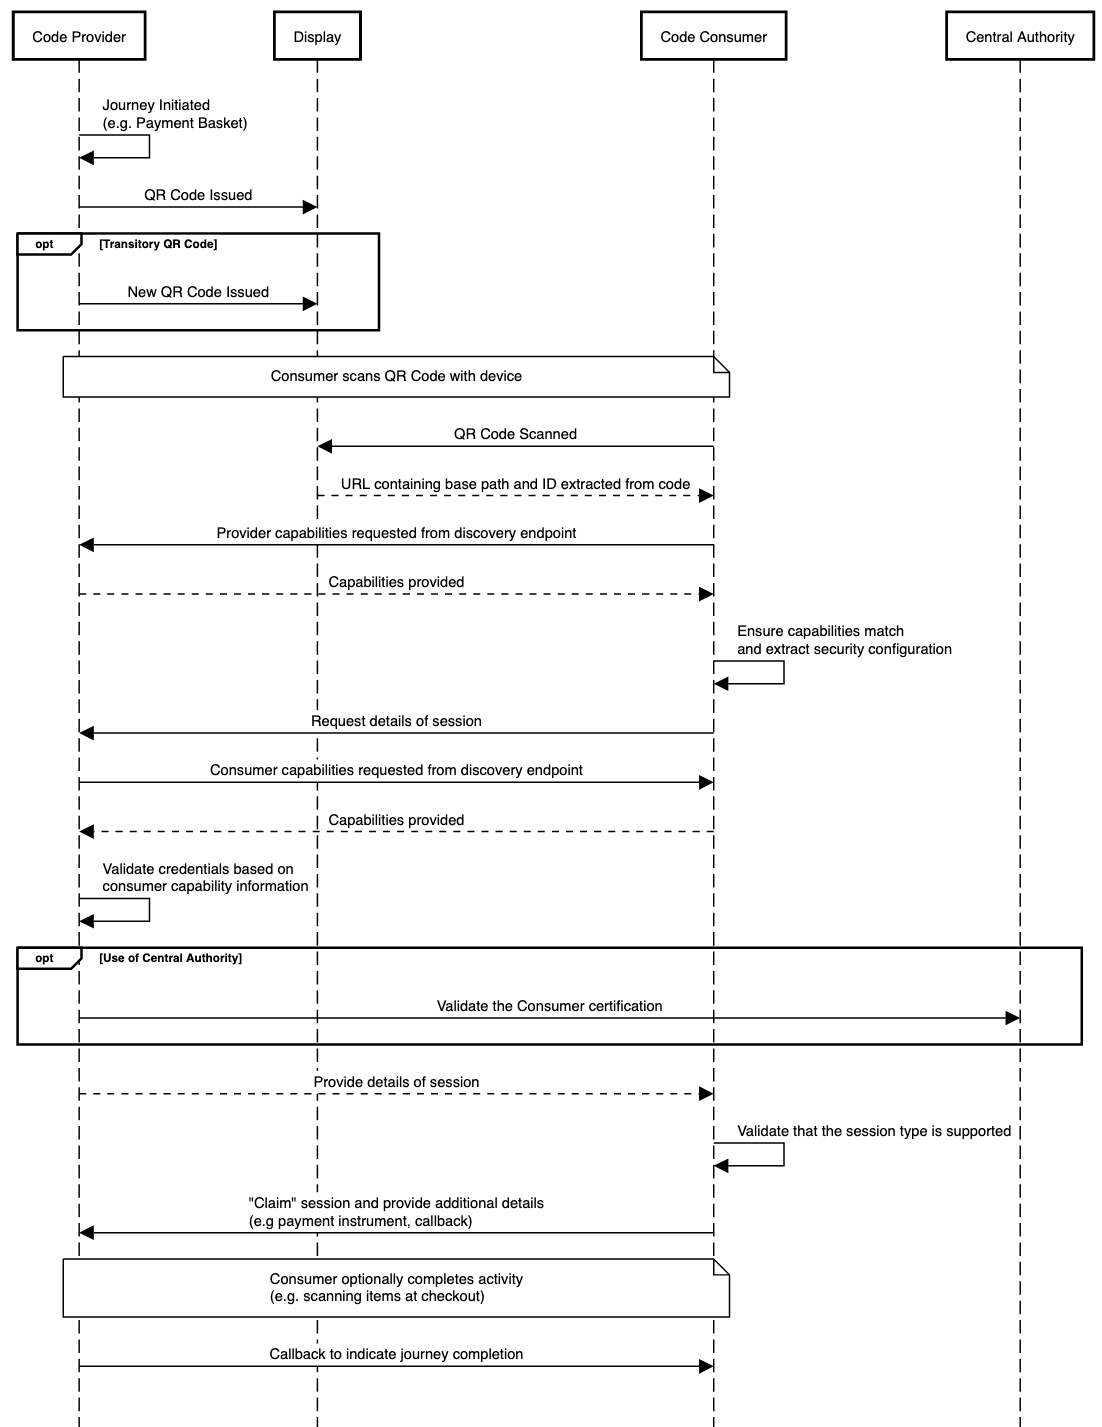
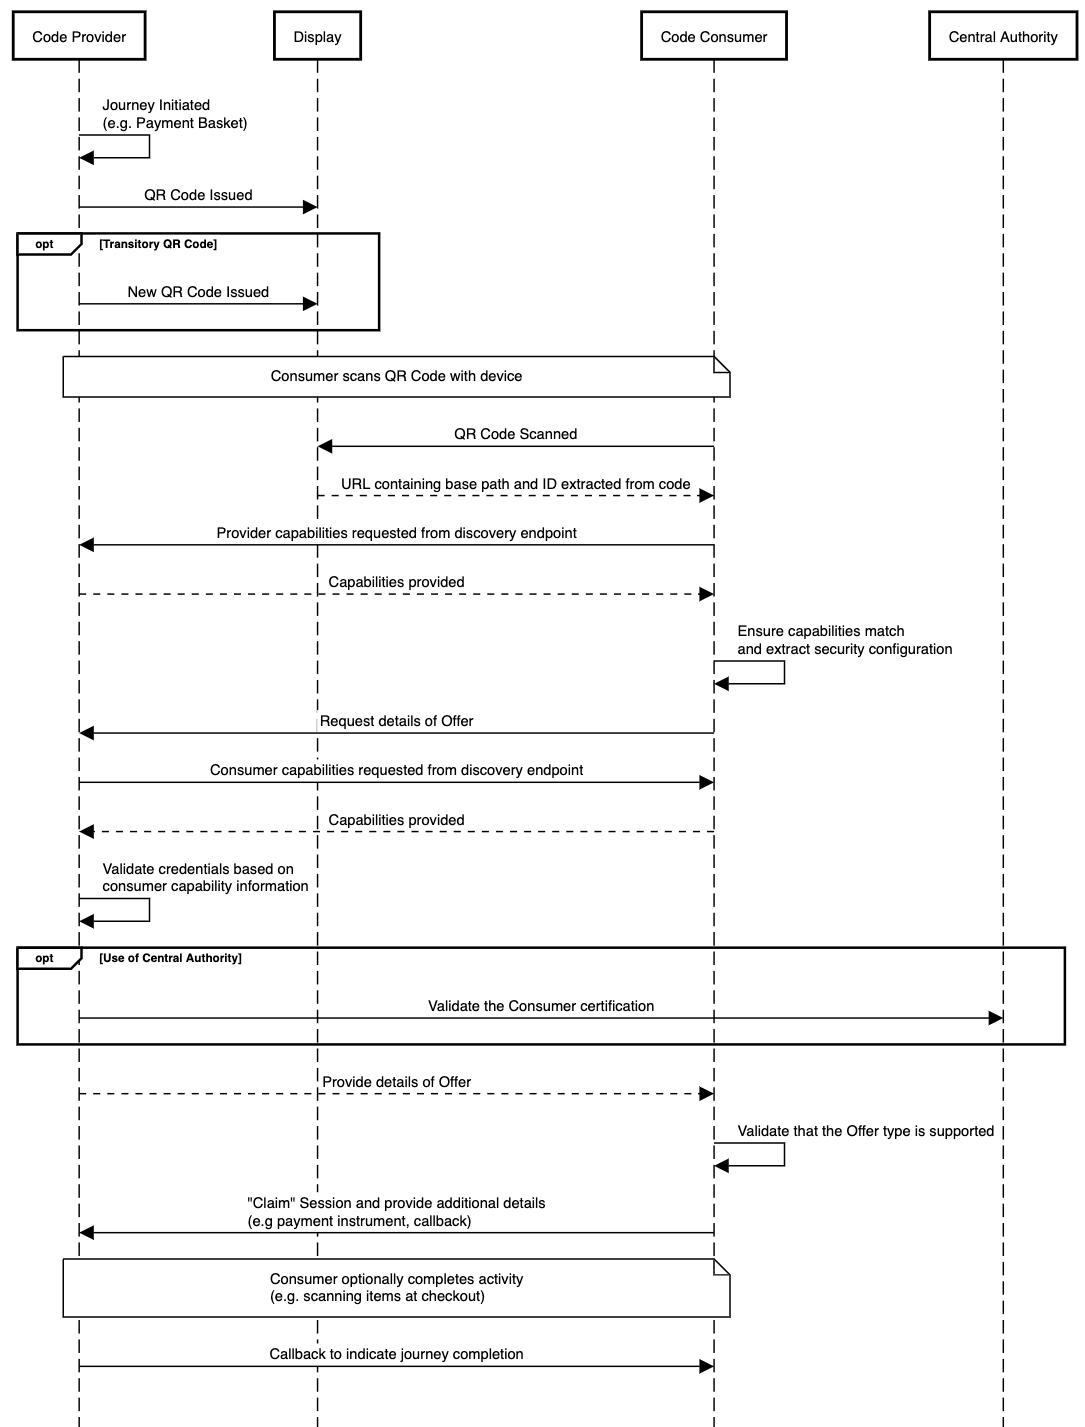
Update terminology to separate the concept of an Offer and a Session

diff --git a/open-qr-standard.md b/open-qr-standard.md
@@ -2,7 +2,7 @@
 
 **An open standard for the publication of interoperable QR codes for payments and other use cases**
 
-**DRAFT**: v0.1.0
+**DRAFT**: v1.0.0
 
 **Authors**:	James Bligh, Kareem Al-Bassam, Jack Moggach
 
@@ -33,6 +33,8 @@ The key words "MUST", "MUST NOT", "REQUIRED", "SHALL", "SHALL NOT", "SHOULD", "S
 |Code Provider|The system that represents the initiating side of the user journey.  This is the system that creates and publishes the QR Code.  For a point-of-sale payment this would be the merchant checkout system.|
 |Code Consumer|The system that represents the acceptance, or client, side of the user journey.  This is the system that scans and processes the QR Code.  For a point-of-sale payment this would be the customer’s mobile wallet application.|
 |QR Profile|A profile for defining the format of the various actions and meta data that can be transferred using this standard for a specific type of use case or user journey.|
+|Offer|The information about the profiles and capabilities associated with a specific QR Code.|
+|Session|An established connection between a QR Provider and a QR Consumer.|
 
 ## Generic Sequence Diagram
 
@@ -79,7 +81,7 @@ An example sequence of activity supported by this standard is as follows ([PNG v
       |                                               |                              |               |            |
       |                                               |<------------------------------               |            |
       |                                               |                                              |            |
-      |                    Request details of session |                                              |            |
+      |                      Request details of Offer |                                              |            |
       |<----------------------------------------------|                                              |            |
       |                                               |                                              |            |
       | Consumer capabilities from discovery          |                                              |            |
@@ -96,15 +98,15 @@ An example sequence of activity supported by this standard is as follows ([PNG v
       | (optional: Use of Central Authority) Validate the Consumer certification                     |            |
       |---------------------------------------------------------------------------------------------------------->|
       |                                               |                                              |            |
-      | Provide details of session                    |                                              |            |
+      | Provide details of Offer                      |                                              |            |
       |---------------------------------------------->|                                              |            |
       |                                               |                                              |            |
-      |                                               | Validate session type is supported           |            |
-      |                                               |-----------------------------------           |            |
-      |                                               |                                  |           |            |
-      |                                               |<----------------------------------           |            |
+      |                                               | Validate Offer type is supported             |            |
+      |                                               |---------------------------------             |            |
+      |                                               |                                |             |            |
+      |                                               |<--------------------------------             |            |
       |                                               |                                              |            |
-      |           "Claim" session and provide details |                                              |            |
+      |           "Claim" Session and provide details |                                              |            |
       |<----------------------------------------------|                                              |            |
       |                                               |                                              |            |
       | Callback to indicate journey completion       |                                              |            |
@@ -122,19 +124,29 @@ This QR Code MUST contain a URL in the following format:
 
 The Code Provider MUST provide a valid web page at the location specified by `<provider base>` with instructions for a user how the QR Code can be successfully used.
 
-The `<QR ID>` is used to obtain access to a data entity held by the Code Provider referred to in this standard as a session.  QR IDs MAY be single or multiple use depending on the use case being supported.
-
-Sessions MUST be single use.
+The `<QR ID>` is used to obtain access to a data entity held by the Code Provider referred to in this standard as an `Offer`.  QR IDs MAY be single or multiple use depending on the use case being supported.
 
 The Code Provider SHOULD superimpose a logo on the QR code to help Customers recognise trusted brands.  This logo SHOULD be tested to ensure the logo does not introduce too much error to the QR Code and the QR Code remains readable. In situations where the effect of scanning a QR code is unclear the Code Provider SHOULD provide guidance as to how the QR Code can be successfully used.
 
-## Session Actions
+## Offers
 
-The Code Provider MUST support a Session Info endpoint that the Code Consumer can call to obtain information about the session using the QR ID obtained from the QR Code.  This endpoint SHOULD be idempotent and should not have side effects on the underlying Session.
+An Offer is the information associated with a specific QR Code that represnts the profiles that the QR Code allows access to.  A Code Consumer obtains the Offer information for a QR Code and then determines how to proceed based on the information the Offer contains and what there service supports.
 
-The Code Provider MUST support a Session Claim endpoint that the Code Consumer can use to claim a session for use using a QR ID.  This endpoint MUST provide a unique Session ID that can be used for subsequent interactions.
+Offers MAY be single use or MAY be multi-use.
 
-The Code Provider MUST support a Session Status endpoint to identify the status of a session using a Session ID.
+## Sessions
+
+After obtaining the Offer information a Code Consumer may claim that Offer.  This will result in a Session being established between the Code Provider and the Code Consumer with the Code Provider being the owner of the Session.
+
+Sessions MUST be single use.
+
+## Offer and Session Endpoints
+
+The Code Provider MUST support an Offer Info endpoint that the Code Consumer can call to obtain information about the Offer using the QR ID obtained from the QR Code.  This endpoint SHOULD be idempotent and should not have side effects on the underlying Offer.
+
+The Code Provider MUST support an Offer Claim endpoint that the Code Consumer can use to claim a Offer for use using a QR ID and thus establishing a Session.  This endpoint MUST provide a unique Session ID that can be used for subsequent interactions.
+
+The Code Provider MUST support a Session Status endpoint to identify the status of a Session using a Session ID.
 
 The Code Provider MUST support the ability to perform a callback to the Code Consumer when the status of the Session changes.
 

diff --git a/profiles/payment-profile.md b/profiles/payment-profile.md
@@ -9,7 +9,7 @@ This profile relies upon, and extends the [Core QR Profile definition](./core-pr
 
 This profile is optional.
 
-**DRAFT**: v1.0.0
+**DRAFT**: v1.1.0
 
 **Authors**:	James Bligh, Kareem Al-Bassam, Jack Moggach
 
@@ -39,16 +39,16 @@ The supported discovery properties are:
 
 ## Code Provider Endpoints
 
-### Session Info Endpoint
+### Offer Info Endpoint
 
-The following schema defines the content to be returned by the Code Provider in a request to the session info endpoint under the ‘profiles’ property.  This schema will be returned with an object with the field name of the *Code Provider Profile URN*.
+The following schema defines the content to be returned by the Code Provider in a request to the offer info endpoint under the ‘profiles’ property.  This schema will be returned with an object with the field name of the *Code Provider Profile URN*.
 
 Profile specific response schema [JSONSchema]:
 
 ```json
 {
    "$schema": "http://json-schema.org/draft-07/schema",
-   "$id": "https://cds-au/qr/pos-merchant/1/response/session/info",
+   "$id": "https://cds-au/qr/pos-merchant/1/response/offer/info",
    "type": "object",
    "additionalProperties": true,
    "required": [
@@ -78,11 +78,11 @@ Profile specific response schema [JSONSchema]:
       },
       "merchantReference": {
          "type": "string",
-         "description": "Optional reference identifier which represents the QR session in a merchant's internal systems."
+         "description": "Optional reference identifier which represents the offer in a merchant's internal systems."
       },
       "synchronous": {
          "type": "boolean",
-         "description": "Flag indicating that a payment with this QR code will be synchronous and a final status will be provided when the session is claimed. Assumed to be false if absent"
+         "description": "Flag indicating that a payment with this QR code will be synchronous and a final status will be provided when the offer is claimed. Assumed to be false if absent"
       },
       "instrumentTypes": {
          "type": "object",
@@ -93,9 +93,9 @@ Profile specific response schema [JSONSchema]:
 }
 ```
 
-### Session Claim Endpoint
+### Offer Claim Endpoint
 
-The following schemas define the content to be included in the request and response payloads for the session claim endpoint under the ‘profiles’ property.
+The following schemas define the content to be included in the request and response payloads for the offer claim endpoint under the ‘profiles’ property.
 
 The following schema will be included in the request object with an object with the field name of the *Code Consumer Profile URN*.
 
@@ -104,7 +104,7 @@ Profile specific request schema [JSONSchema]:
 ```json
 {
    "$schema": "http://json-schema.org/draft-07/schema",
-   "$id": "https://cds-au/qr/pos-wallet/1/request/session/claim",
+   "$id": "https://cds-au/qr/pos-wallet/1/request/offer/claim",
    "type": "object",
    "additionalProperties": false,
    "required": [
@@ -126,7 +126,7 @@ Profile specific request schema [JSONSchema]:
          "properties": {
             "type": {
                "type": "string",
-               "description": "The type of the instrument to be used for the payment. Additional fields such as tokens or identifiers will be included as defined for the specific instrument type. The instrument type must be one of the types indicated as being supported in the provider discovery document and in the response to a call to session info"
+               "description": "The type of the instrument to be used for the payment. Additional fields such as tokens or identifiers will be included as defined for the specific instrument type. The instrument type must be one of the types indicated as being supported in the provider discovery document and in the response to a call to offer info"
             }
          }
       }
@@ -141,7 +141,7 @@ Profile specific response schema [JSONSchema]:
 ```json
 {
    "$schema": "http://json-schema.org/draft-07/schema",
-   "$id": "https://cds-au/qr/pos-merchant/1/response/session/claim",
+   "$id": "https://cds-au/qr/pos-merchant/1/response/offer/claim",
    "type": "object",
    "additionalProperties": true,
    "required": [
@@ -322,7 +322,7 @@ Profile specific response schema [JSONSchema]:
 
 ## Code Provider Callback
 
-Code Providers which support the Point of Sale Payment MUST be able to callback to a nominated Code Consumer endpoint when information about a claimed Session changes.
+Code Providers which support the Point of Sale Payment MUST be able to callback to a nominated Code Consumer endpoint when information about a Session changes.
 
 Code Consumers can optionally include a ‘callbackUri’ within their discovery document. If this value is set the Code Provider MUST send callback requests. The ‘callbackUri’ can be found in the Code Consumer profile with the *Code Provider Profile URN*.
 
@@ -346,7 +346,7 @@ The supported discovery properties are:
 |----------|-------------|-------------|
 |loyaltyPrograms|OPTIONAL|Array of strings indicating the loyalty programs supported for payments.  The values in the array are string indicators nominated by the loyalty program organisation.|
 |instrumentTypes|OPTIONAL|Map indicating the types of payment instruments supported by the code provider.  The keys in the map are string indicators nominated by the organisation that manages the instrument type. Keys follow a URN format and support versions. Metadata about the instrument type may be included in the mapped value object.|
-|callbackUri|OPTIONAL|A URL where the wallet can receive status callbacks. If supplied the merchant should send a POST request to this URL using the ‘Session Status’ schema whenever information about a session is changed.|
+|callbackUri|OPTIONAL|A URL where the wallet can receive status callbacks. If supplied the merchant should send a POST request to this URL using the ‘Session Status’ schema whenever information about a Session is changed.|
 
 ## Code Consumer Endpoints
 

diff --git a/profiles/core-profile.md b/profiles/core-profile.md
@@ -7,7 +7,7 @@ Note that this profile should read as an addendum to the [Open QR Standard](../o
 
 This profile MUST be supported by both Code Providers and Code Consumers.
 
-**DRAFT**: v1.0.0
+**DRAFT**: v1.1.0
 
 **Authors**:	James Bligh, Kareem Al-Bassam, Jack Moggach
 
@@ -23,8 +23,8 @@ The supported discovery properties are:
 
 | Property | Optionality | Description |
 |----------|-------------|-------------|
-|sessionInfoUri|REQUIRED|URL of the Session Info endpoint hosted by the Code Provider.|
-|sessionClaimUri|REQUIRED|URL of the Session Claim endpoint hosted by the Code Provider.|
+|offerInfoUri|REQUIRED|URL of the Offer Info endpoint hosted by the Code Provider.|
+|offerClaimUri|REQUIRED|URL of the Offer Claim endpoint hosted by the Code Provider.|
 |sessionStatusUri|REQUIRED|URL of the Session Status endpoint hosted by the Code Provider.|
 |jwksUri|REQUIRED|URL of the JWKS endpoint for the Code Provider.  MUST include appropriate keys to support the algorithms supported.|
 |signingAlgorithms|REQUIRED|JSON array containing a list of supported JWS [RFC7515] signing algorithms.  Values to be taken from the JWA standard [RFC7518].  Only asymmetric algorithms may be supported.|
@@ -35,9 +35,9 @@ The supported discovery properties are:
 
 ## Code Provider Endpoints
 
-### Session Info Endpoint
+### Offer Info Endpoint
 
-An API used to obtain information about the session associated with a nominated QR ID.
+An API used to obtain information about the Offer associated with a nominated QR ID.
 
 #### HTTP Method
 
@@ -66,7 +66,7 @@ Successful response schema [JSONSchema]:
 ```json
 {
    "$schema": "http://json-schema.org/draft-07/schema",
-   "$id": "https://cds-au/qr/core-provider/1/response/session/info",
+   "$id": "https://cds-au/qr/core-provider/1/response/offer/info",
    "type": "object",
    "additionalProperties": false,
    "required": [
@@ -131,9 +131,9 @@ Successful response schema [JSONSchema]:
 }
 ```
 
-### Session Claim Endpoint
+### Offer Claim Endpoint
 
-An API used to claim a session under a specific QR Profile using a nominated QR ID.
+An API used to claim an offer and establish a session under a specific QR Profile using a nominated QR ID.
 
 #### HTTP Method
 
@@ -143,7 +143,7 @@ POST
 
 | Parameter | Optionality | Description |
 |-----------|-------------|-------------|
-|qr-id|REQUIRED|The QR ID that a session is to be claimed for.|
+|qr-id|REQUIRED|The QR ID that an offer is to be claimed for.|
 
 #### Request
 
@@ -152,7 +152,7 @@ Request schema [JSONSchema]:
 ```json
 {
    "$schema": "http://json-schema.org/draft-07/schema",
-   "$id": "https://cds-au/qr/core-provider/1/request/session/claim",
+   "$id": "https://cds-au/qr/core-provider/1/request/offer/claim",
    "type": "object",
    "additionalProperties": false,
    "required": [
@@ -221,7 +221,7 @@ Successful response schema [JSONSchema]:
 ```json
 {
    "$schema": "http://json-schema.org/draft-07/schema",
-   "$id": "https://cds-au/qr/core-provider/1/response/session/claim",
+   "$id": "https://cds-au/qr/core-provider/1/response/offer/claim",
    "type": "object",
    "additionalProperties": false,
    "required": [
@@ -240,7 +240,7 @@ Successful response schema [JSONSchema]:
          "properties": {
             "sessionId": {
                "type": "string",
-               "description": "The session-id created by claiming the session.  This ID represents this claim event and must be unique.  Can be used for subsequent calls for status"
+               "description": "The session-id representing the session created by claiming the offer.  This ID represents this claim event and must be unique.  Can be used for subsequent calls for status"
             },
             "provider": {
                "type": "string",
@@ -270,7 +270,7 @@ Successful response schema [JSONSchema]:
 
 ### Session Status Endpoint
 
-An API used to obtain information about a specific session that was previously claimed.
+An API used to obtain information about a specific session that was previously established by claiming an Offer.
 
 #### HTTP Method
 
@@ -280,7 +280,7 @@ GET
 
 | Parameter | Optionality | Description |
 |-----------|-------------|-------------|
-|session-id|REQUIRED|The Session ID that information is requested for that was previously obtained from a call to the Session Claim endpoint.|
+|session-id|REQUIRED|The Session ID that information is requested for that was previously obtained from a call to the Offer Claim endpoint.|
 
 #### Error Responses
 

diff --git a/profiles/payment-instruments/eftpos.md b/profiles/payment-instruments/eftpos.md
@@ -7,7 +7,7 @@ This payment instrument definition relies upon the [Point-of-sale Payment Profil
 
 Support for this payment instrument is optional.
 
-**DRAFT**: v0.0.4
+**DRAFT**: v0.0.5
 
 **Authors**: Jack Moggach
 
@@ -39,9 +39,9 @@ The supported properties are:
 | cardSupported  | REQUIRED    | Boolean flag indicating if the Code Provider supports payment via card details.                                         |
 | tokenSupported | REQUIRED    | Boolean flag indicating if the Code Provider supports payment via an Eftpos card formtoken.                             |
 
-#### Session Info Endpoint
+#### Offer Info Endpoint
 
-The following schema defines the content to be returned by the Code Provider in a request to the session info endpoint. This information will be included in the **urn:cds-au:qr:pos-merchant:1** 'profile' property within the 'instrumentTypes' section.
+The following schema defines the content to be returned by the Code Provider in a request to the offer info endpoint. This information will be included in the **urn:cds-au:qr:pos-merchant:1** 'profile' property within the 'instrumentTypes' section.
 
 This schema will be returned with an object with the field name of:
 
@@ -52,7 +52,7 @@ Response Schema [json-schema]:
 ```json
 {
    "$schema": "http://json-schema.org/draft-07/schema",
-   "$id": "https://cds-au/qr/pos-instrument/eftpos/1/response/session/info",
+   "$id": "https://cds-au/qr/pos-instrument/eftpos/1/response/offer/info",
    "type": "object",
    "additionalProperties": false,
    "required": [
@@ -61,15 +61,15 @@ Response Schema [json-schema]:
    "properties": {
       "3dsEnabled": {
          "type": "boolean",
-         "description": "Is 3DS enabled for the given session? This value does not indicate whether or not a 3DS challenge will be triggered - only that it may be triggered."
+         "description": "Is 3DS enabled for the given offer? This value does not indicate whether or not a 3DS challenge will be triggered - only that it may be triggered."
       }
    }
 }
 ```
 
-#### Session Claim Endpoint
+#### Offer Claim Endpoint
 
-The following schema defines the content to be returned by the Code Provider in a request to the session claim endpoint. This information will be included in the **urn:cds-au:qr:pos-merchant:1** ‘profile’ property within the ‘instrumentTypes’ section.
+The following schema defines the content to be returned by the Code Provider in a request to the offer claim endpoint. This information will be included in the **urn:cds-au:qr:pos-merchant:1** ‘profile’ property within the ‘instrumentTypes’ section.
 
 This schema will be returned with an object with the field name of:
 
@@ -86,7 +86,7 @@ Request Schema [json-schema]:
 ```json
 {
    "$schema": "http://json-schema.org/draft-07/schema",
-   "$id": "https://cds-au/qr/pos-instrument/eftpos/1/request/session/claim",
+   "$id": "https://cds-au/qr/pos-instrument/eftpos/1/request/offer/claim",
    "type": "object",
    "additionalProperties": false,
    "required": [],
@@ -100,7 +100,7 @@ Response Schema [json-schema]:
 ```json
 {
    "$schema": "http://json-schema.org/draft-07/schema",
-   "$id": "https://cds-au/qr/pos-instrument/eftpos/1/response/session/claim",
+   "$id": "https://cds-au/qr/pos-instrument/eftpos/1/response/offer/claim",
    "type": "object",
    "additionalProperties": false,
    "required": [
